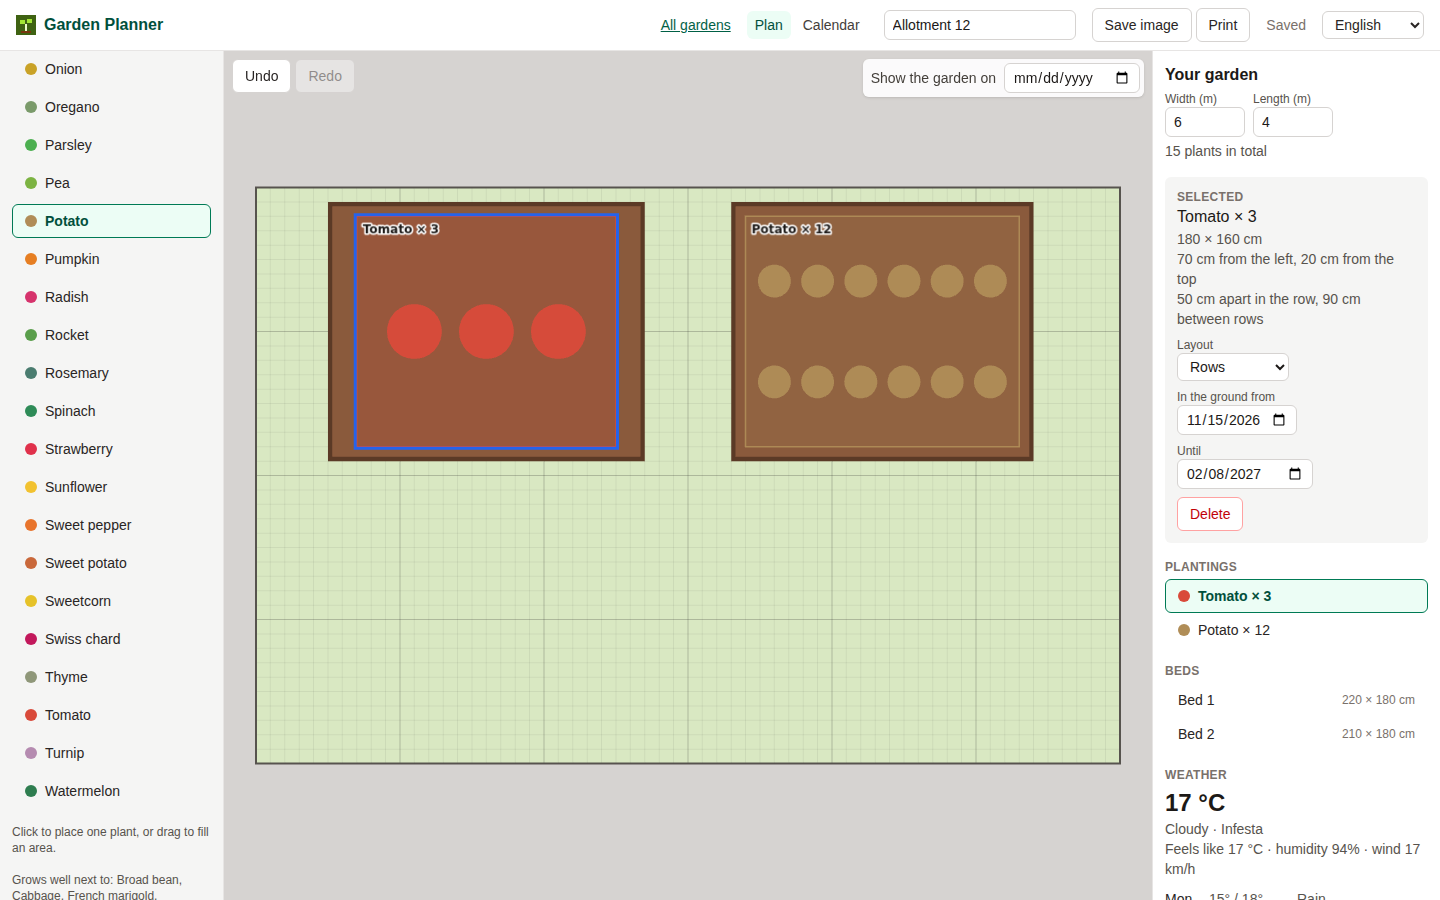
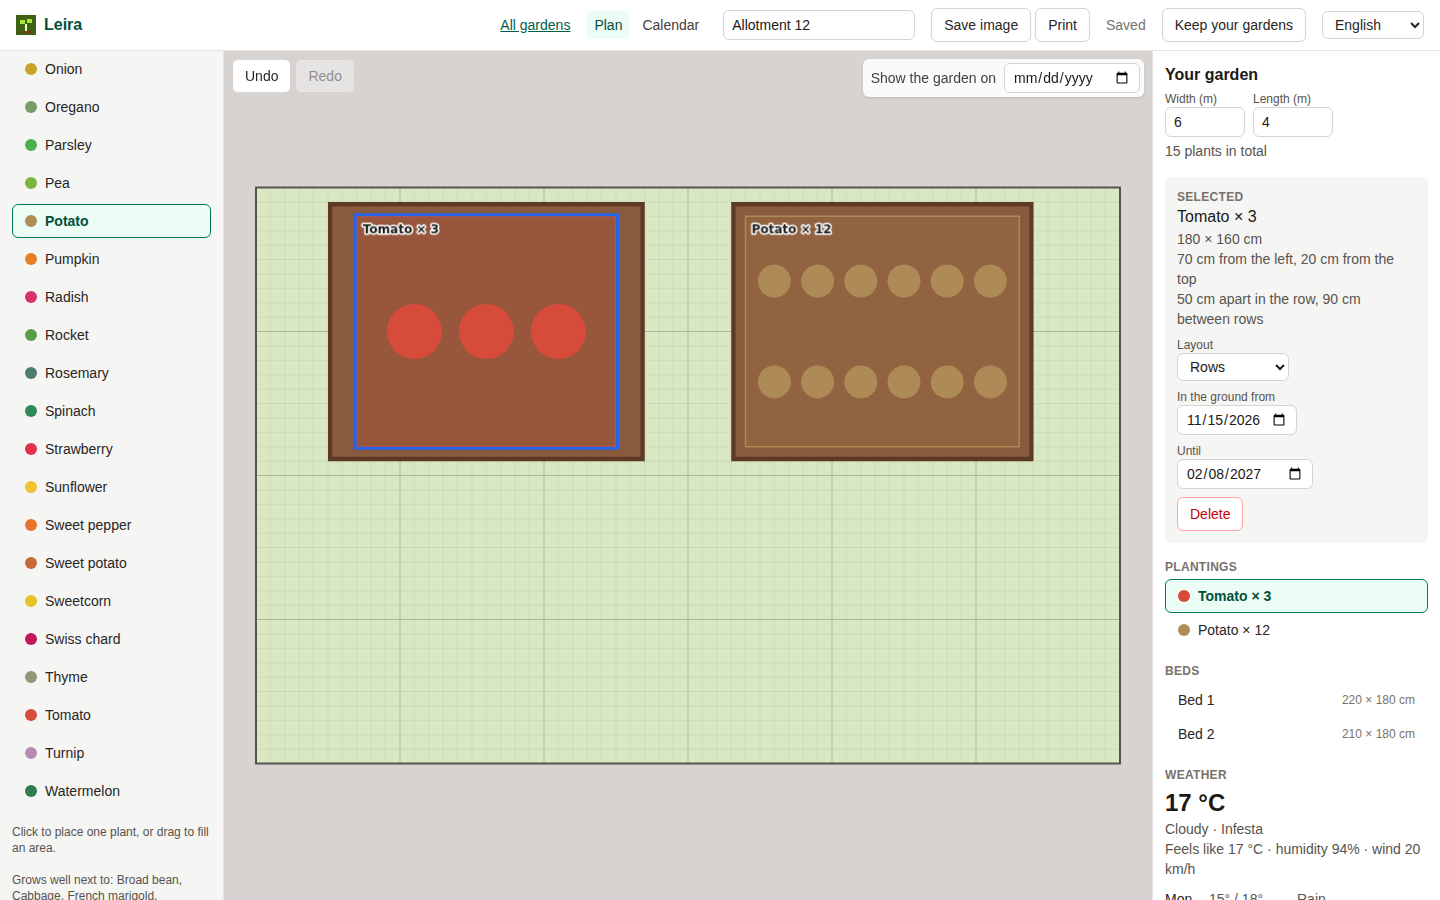
feat: rename the app to Leira
"Garden Planner" described the app but was nobody's name. A leira is
what a plot of cultivated land is called in Minho, which is what the
app draws, and no other garden app uses it.

The Worker and the local Supabase stack take the name too, so the
public address becomes leira.paulodcgraca.workers.dev. The `@garden`
package scope stays: it is internal and says what the code is about.

Claude-Session: https://claude.ai/code/session_01KKXWy73aTmvKyN6sCwQ8ds

Changed region(s): [[0.625, 0.0, 0.9062, 0.0622], [0.3438, 0.0, 0.5938, 0.0622], [0.0312, 0.0, 0.125, 0.0311]]

diff --git a/apps/web/index.html b/apps/web/index.html
@@ -8,7 +8,7 @@
       name="description"
       content="Plan your vegetable garden: beds, plant spacing, sowing dates and crop rotation."
     />
-    <title>Garden Planner</title>
+    <title>Leira: plan your vegetable garden</title>
   </head>
   <body>
     <div id="root"></div>

diff --git a/apps/web/src/i18n/en.ts b/apps/web/src/i18n/en.ts
@@ -1,7 +1,7 @@
 /** English strings. This object also defines the keys every other language must provide. */
 export const en = {
   app: {
-    name: "Garden Planner",
+    name: "Leira",
   },
   language: {
     label: "Language",

diff --git a/apps/web/src/i18n/pt.ts b/apps/web/src/i18n/pt.ts
@@ -3,7 +3,7 @@ import type { Translation } from "./en"
 /** Português europeu. */
 export const pt: Translation = {
   app: {
-    name: "Garden Planner",
+    name: "Leira",
   },
   language: {
     label: "Idioma",

diff --git a/README.md b/README.md
@@ -1,14 +1,16 @@
-# Garden Planner
+# Leira
 
-[![CI](https://github.com/pgraca97/garden-planner/actions/workflows/ci.yml/badge.svg)](https://github.com/pgraca97/garden-planner/actions/workflows/ci.yml)
+[![CI](https://github.com/pgraca97/leira/actions/workflows/ci.yml/badge.svg)](https://github.com/pgraca97/leira/actions/workflows/ci.yml)
 
 Plan a vegetable garden on a grid: draw beds, fill them with crops at the right spacing, and get
 warned about crop rotation, bad neighbours and frost where the garden is.
 
+A _leira_ is what a plot of cultivated land is called in Minho, in the north of Portugal.
+
 > Work in progress. You start as a guest, with no sign-up, and can keep your gardens later with
 > Google or a link sent by email.
 
-**[Live demo](https://garden-planner.paulodcgraca.workers.dev)**
+**[Live demo](https://leira.paulodcgraca.workers.dev)**
 
 ![The editor with two beds, one with 3 tomatoes and one with 12 potatoes, the crop list on the left, and the selected planting's details and the local weather on the right](docs/editor.png)
 

diff --git a/CLAUDE.md b/CLAUDE.md
@@ -1,4 +1,4 @@
-# Garden Planner
+# Leira
 
 See `README.md` for the layout, setup and commands.
 
